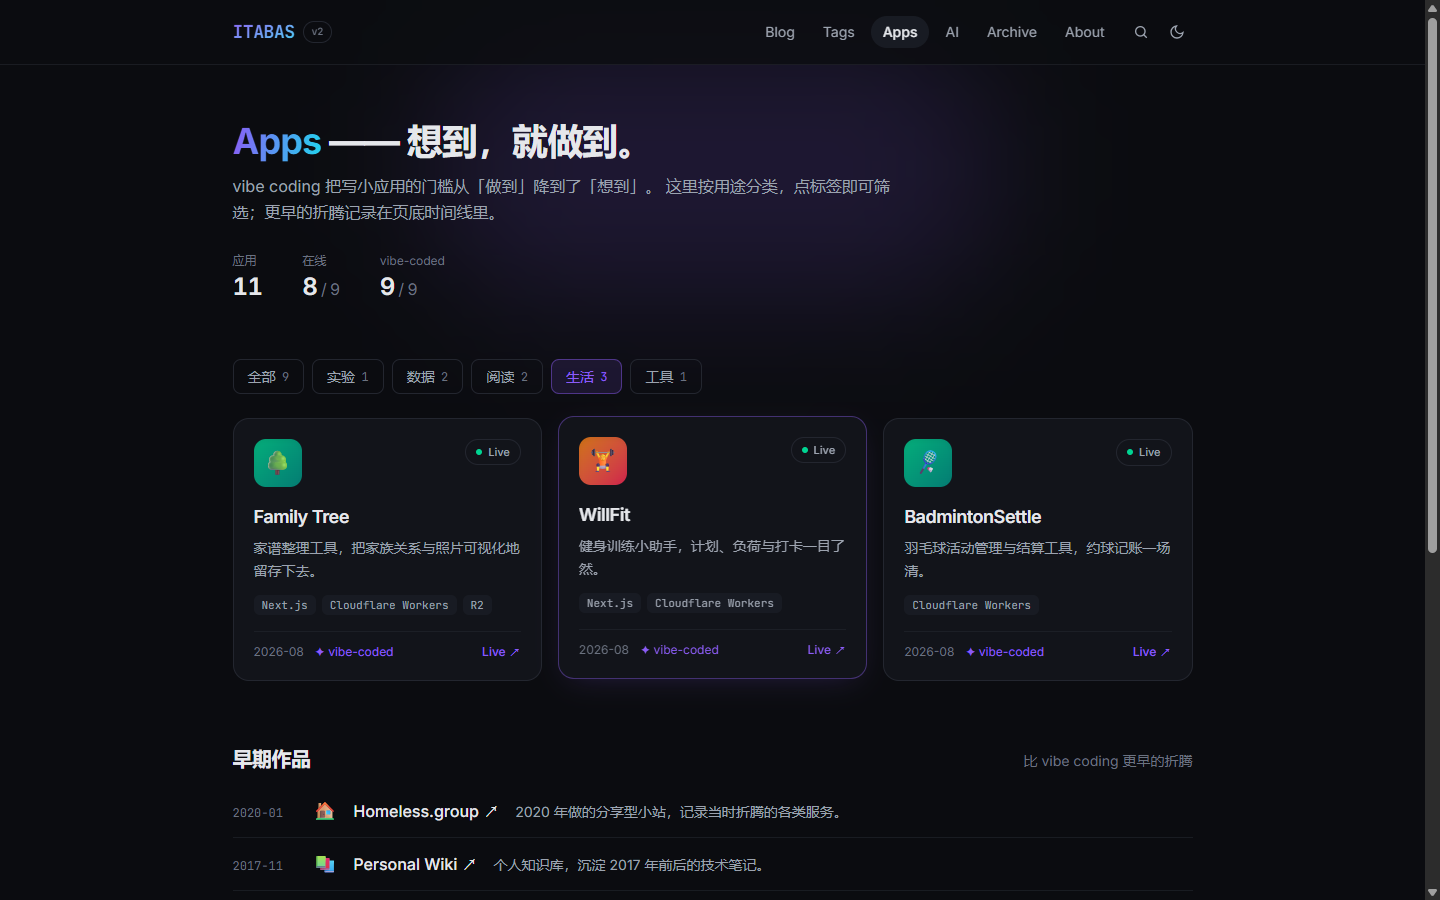
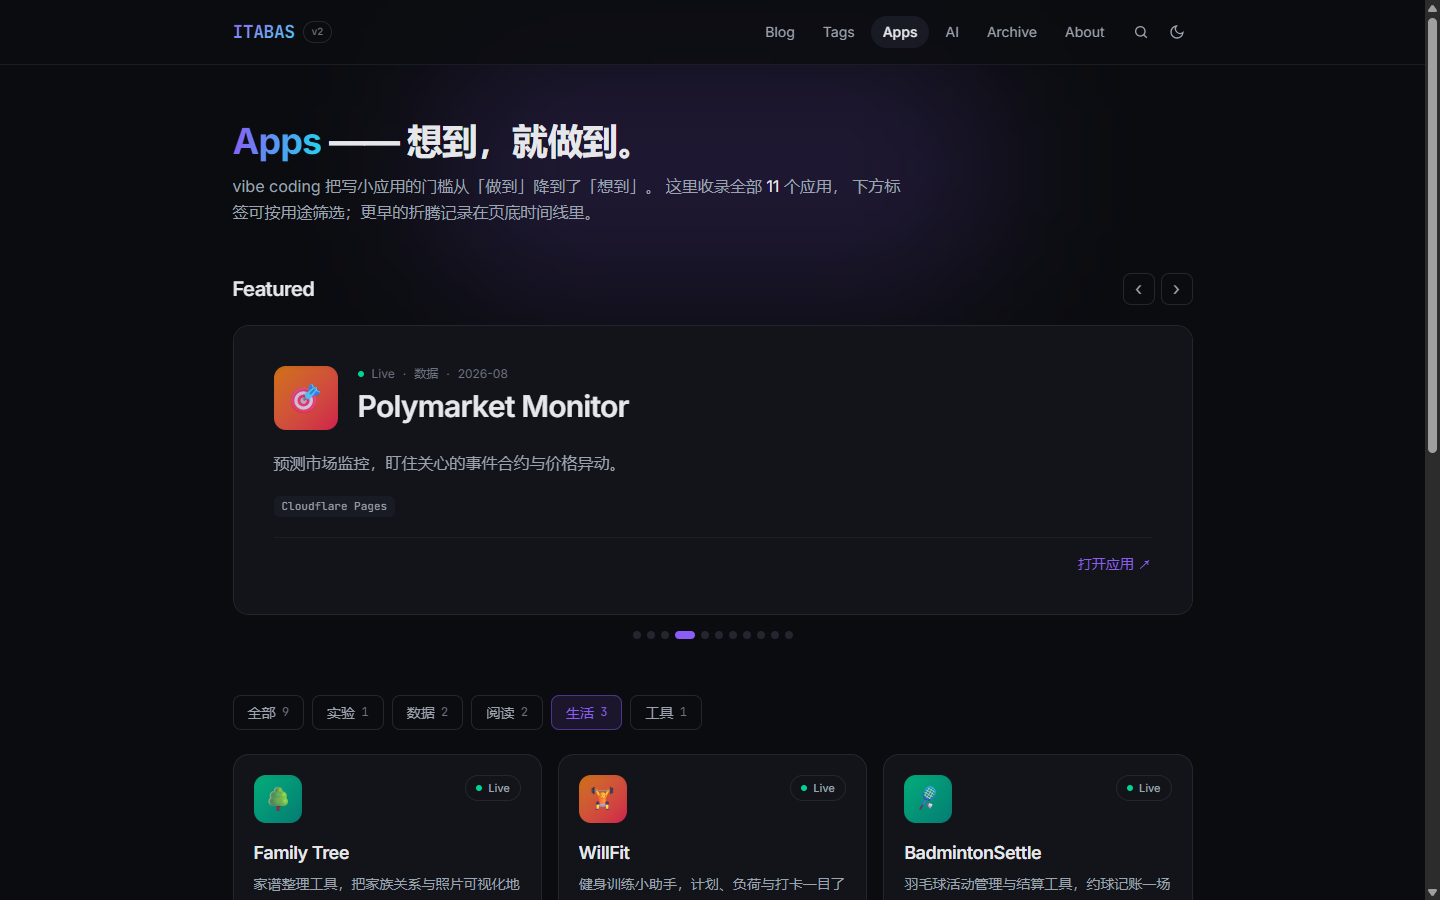
docs(apps): v4 revision (carousel hero, no stats) with refreshed screenshots

diff --git a/docs/APPS-REDESIGN.md b/docs/APPS-REDESIGN.md
@@ -1,6 +1,6 @@
 # /apps 页面重设计方案（去 AI 味修订版）
 
-> 版本：v3 · 2026-09-05 · Roger Cui（itabas016）× Claude Code
+> 版本：v4 · 2026-09-05 · Roger Cui（itabas016）× Claude Code
 > 状态：P1 已实现，本文档截图即当前形态；P2 截图素材待补
 > 关联：`DESIGN.md` §6（数据契约与展示形态的单一段落摘要）、`AGENTS.md`（发布规范）
 
@@ -12,7 +12,7 @@
 2. **没有推广位**：所有应用平权滚动，最值得看的和 2017 年的存档作品混在一起；
 3. **装饰依赖症**：视觉全靠 emoji 渐变色块撑，应用一多就是一墙彩色噪声。
 
-v2 方案（跑马灯 → 精选大卡 + 筛选网格）解决了结构问题，但评审发现精选区引入了新的 AI 味装饰（渐变横幅、水印大字、emoji pill）。v3 在结构不变的前提下做减法。
+v2 方案（跑马灯 → 精选大卡 + 筛选网格）解决了结构问题，但评审发现精选区引入了新的 AI 味装饰（渐变横幅、水印大字、emoji pill）。v3 在结构不变的前提下做减法；v4 按 Roger 反馈重构了推广位形态。
 
 ## 2. 设计原则
 
@@ -39,21 +39,31 @@ v2 方案（跑马灯 → 精选大卡 + 筛选网格）解决了结构问题，
 - Hero 径向光晕：全站 Hero 语言（`DESIGN.md` §4.1），非本页私加；
 - 「Apps」渐变字：全站锁定的 violet→cyan 单 accent，只用于强调处；
 - 标题「—— 想到，就做到。」：作者原句，人的声音；
-- 网格卡片的小 emoji 图标位：既有卡片语言（个人项目的小头像），保留；
-- ✦ vibe-coded 徽章：全站 AI 披露母题，与 `/ai` 页呼应。
+- 网格卡片的小 emoji 图标位：既有卡片语言（个人项目的小头像），保留。
 
-## 4. 页面结构
+## 3.5 v4 修订记录（2026-09-05，Roger 反馈）
+
+| # | 元素 | v3 | v4 | 理由 |
+|---|---|---|---|---|
+| 1 | vibe-coded 标注 | 精选行与网格卡均有 ✦ 徽章 | `/apps` 全页移除（`AppCard` 增加 `vibeBadge` 开关，首页速览保留）；数字条已随 §4 删除 | 应用页只谈应用本身，AI 披露由首页与 `/ai` 页承担 |
+| 2 | Featured 形态 | 3 行排印索引（手工 `featured` 挑选） | **全量应用大卡自动轮播**：一屏一大卡，5s 自动翻页，箭头 + 页码点可手动，悬停/聚焦暂停，循环播放 | 推广位要给每个应用出场机会，不做人工挑选 |
+| 3 | Hero 数字条 | 应用/在线/vibe-coded 三项统计 | 删除 | 数字 self-congratulatory，应用本身说话 |
+| 4 | 分类筛选作用域 | 筛选时精选区隐藏、精选应用回网格 | 分类只过滤下方网格，**轮播常驻** | 轮播即全量目录的放大镜，无需让位 |
+| 5 | 应用链接 | 个别用 `*.pages.dev` | 对照 Cloudflare API 全量核实：**有自定义域名一律用自定义域名**（reading-challenge / family-tree 本次切换），无自定义域用 `*.pages.dev` 默认域；`wiki.itabas.com` 已下线移除链接 | 链接以部署事实为准 |
+
+## 4. 页面结构（v4 现状）
 
 ```
-Hero：H1 + 一句话说明 + 数字条（应用 11 · 在线 8/9 · vibe-coded 9/9，tabular-nums）
+Hero：H1 + 一句话说明（无统计数字条）
 ──────────────────────────────────────────
-Featured：3 行排印索引（分类 · 日期｜大字应用名｜一句话｜stack chips｜✦ vibe-coded · 打开应用 ↗）
-         cover 字段就绪后，行右侧接 16:10 截图缩略图
+Featured：全量大卡自动轮播（11 个应用全部出场）
+          卡片 = 状态点 · 分类 · 日期｜emoji 图标位｜大字应用名｜一句话｜stack chips｜打开应用 ↗
+          5s 自动翻页 · 循环；箭头按钮 + 页码点手动；悬停/聚焦暂停；reduced-motion 停用自动播放
 ──────────────────────────────────────────
-筛选 pills：全部 9 ｜ 实验 1 ｜ 数据 2 ｜ 阅读 2 ｜ 生活 3 ｜ 工具 1（mono 计数）
-应用网格：3 列 → 2 列 → 1 列，既有 AppCard；wip 徽章；默认视图不含精选应用
+筛选 pills：全部 9 ｜ 实验 1 ｜ 数据 2 ｜ 阅读 2 ｜ 生活 3 ｜ 工具 1（只过滤下方网格，URL 同步 ?c=）
+应用网格：3 列 → 2 列 → 1 列，既有 AppCard；wip 徽章；无 vibe-coded 标注
 ──────────────────────────────────────────
-早期作品时间线：一行一条（年月 · 名称 ↗ · 一句话），灰调，2017 → 2020
+早期作品时间线：一行一条（年月 · 名称 ↗ · 一句话），灰调；链接已死的（Personal Wiki）退化为纯文本
 ```
 
 ## 5. 分类体系
@@ -71,13 +81,13 @@ Featured：3 行排印索引（分类 · 日期｜大字应用名｜一句话｜
 
 三条原则：`category` 是可选字段，漏填的应用进「未分类」照常展示；archived 不进网格，由 `status` 驱动进时间线；`featured` 是精选位开关，与分类正交。
 
-## 6. 交互与动效
+## 6. 交互与动效（v4）
 
-- **筛选**：约 40 行 vanilla JS 渐进增强。筛选态同步 `?c=<id>` 到 URL（可分享、可后退）；pill 用 `aria-pressed` 驱动选中态，`focus-visible` 有 2px ring。
-- **精选让位规则**：「全部」时精选应用只在索引区出现（网格里服务端渲染为 `hidden`，无 JS 也不重复）；筛选时索引区隐藏，被筛中的精选应用回到网格，与 pill 计数一致。
-- **无 JS 降级**：筛选条隐藏，精选索引 + 全量网格照常可读，零内容丢失。
-- **重排动效**：淡入上移 200ms（`cubic-bezier(0.23,1,0.32,1)`），stagger 40ms；`prefers-reduced-motion` 时关闭。
-- **循环动画**：本页 0 个（跑马灯已移除）。
+- **轮播**：scroll-snap 横向轨道 + JS 自动翻页（5s 间隔，循环）。箭头按钮、页码点均可手动；悬停/聚焦暂停，离开恢复；`visibilitychange` 时停走；`prefers-reduced-motion` 停用自动播放且翻页不动画。无 JS 时退化为原生横滑（snap 兜底），控制按钮隐藏。
+- **筛选**：约 40 行 vanilla JS 渐进增强，只作用于下方网格；筛选态同步 `?c=<id>` 到 URL（可分享、可后退）；pill 用 `aria-pressed` 驱动选中态，`focus-visible` 有 2px ring；轮播不受筛选影响。
+- **无 JS 降级**：筛选条与轮播控制隐藏，轮播可横滑、网格全量可读，零内容丢失。
+- **重排动效**：网格淡入上移 200ms（`cubic-bezier(0.23,1,0.32,1)`），stagger 40ms；`prefers-reduced-motion` 时关闭。
+- **循环动画**：本页仅轮播自动翻页 1 处（悬停即停）。
 
 ## 7. 数据契约（已落地 `src/data/apps.ts`）
 
@@ -111,7 +121,7 @@ interface App {
 
 ![桌面浅色](./assets/apps-redesign/desktop-light.png)
 
-筛选态（生活，URL `?c=life`，精选区让位、BadmintonSettle 回网格）：
+筛选态（生活，URL `?c=life`；轮播常驻不受影响，只过滤下方网格）：
 
 ![筛选态](./assets/apps-redesign/filter-life-dark.png)
 

diff --git a/docs/DESIGN.md b/docs/DESIGN.md
@@ -139,11 +139,12 @@ interface App {
 }
 ```
 
-- 展示形态（2026-09 更新）：**分类目录页**——眼球与效率分工，首页速览引流，`/apps` 负责浏览与转化。页面结构：Hero（标题 + tabular-nums 数字条）→ Featured 精选索引（`featured` 标记，排印式大字行，靠字号与留白建立层级、不用装饰图；`cover` 就绪后行右侧接截图缩略图）→ 分类筛选 pills（按用途：实验/数据/阅读/生活/工具，vanilla JS 渐进增强，筛选态同步 `?c=` 到 URL）→ 应用网格 → 早期作品时间线（archived 不进网格）。
+- 展示形态（2026-09 v4 更新）：**大卡轮播目录页**。页面结构：Hero（标题 + 一句话说明，无统计数字条）→ Featured 全量大卡自动轮播（全部应用出场，5s 自动翻页循环，箭头/页码点手动，悬停暂停，`prefers-reduced-motion` 停用自动播放；`cover` 就绪后卡片右侧接截图）→ 分类筛选 pills（按用途：实验/数据/阅读/生活/工具，只过滤下方网格，筛选态同步 `?c=` 到 URL）→ 应用网格 → 早期作品时间线（archived 不进网格，死链退化为纯文本）。
 - 分类原则：按用途（访客视角）分类，技术栈是卡片 tag 不参与分类；`category` 为可选字段，漏填的应用落「未分类」照常展示，加应用永不被 schema 卡住。
-- 交互：筛选时 Featured 区隐藏、被筛中的精选应用回网格；pill 用 `aria-pressed` 驱动选中态；网格重排 200ms 淡入上移 stagger 40ms，`prefers-reduced-motion` 时关闭；无 JS 时 pills 隐藏、精选 + 全量网格照常可读。
-- 排序：网格 Live 优先再按 addedAt 倒序；时间线按 addedAt 倒序；`vibeCoded` 应用带 ✦ 徽章呼应 AI 主题。
-- 首页含「Vibe Coding Apps」速览（优先 `featured`，不足三个用其余 live 应用补齐），引流到 `/apps`。
+- 交互：轮播 scroll-snap + 自动翻页常驻，不受筛选影响；pill 用 `aria-pressed` 驱动选中态；网格重排 200ms 淡入上移 stagger 40ms，`prefers-reduced-motion` 时关闭；无 JS 时轮播可横滑、控制件隐藏、全量网格照常可读。
+- 链接策略（2026-09-05 对照 Cloudflare API 核实）：有自定义域名一律用自定义域名（reading-challenge / family-tree 已切换），无自定义域用 `*.pages.dev` 默认域；已下线的应用移除链接。`/apps` 页不标注 vibe-coded（`AppCard.vibeBadge` 开关，首页速览保留）。
+- 排序：轮播与网格均 Live → WIP → Archived，同状态按 addedAt 倒序；时间线按 addedAt 倒序。
+- 首页含「Vibe Coding Apps」速览（优先 `featured`，不足三个用其余 live 应用补齐，带 ✦ vibe-coded 徽章），引流到 `/apps`。
 
 ## 7. 迁移策略（G6）
 
